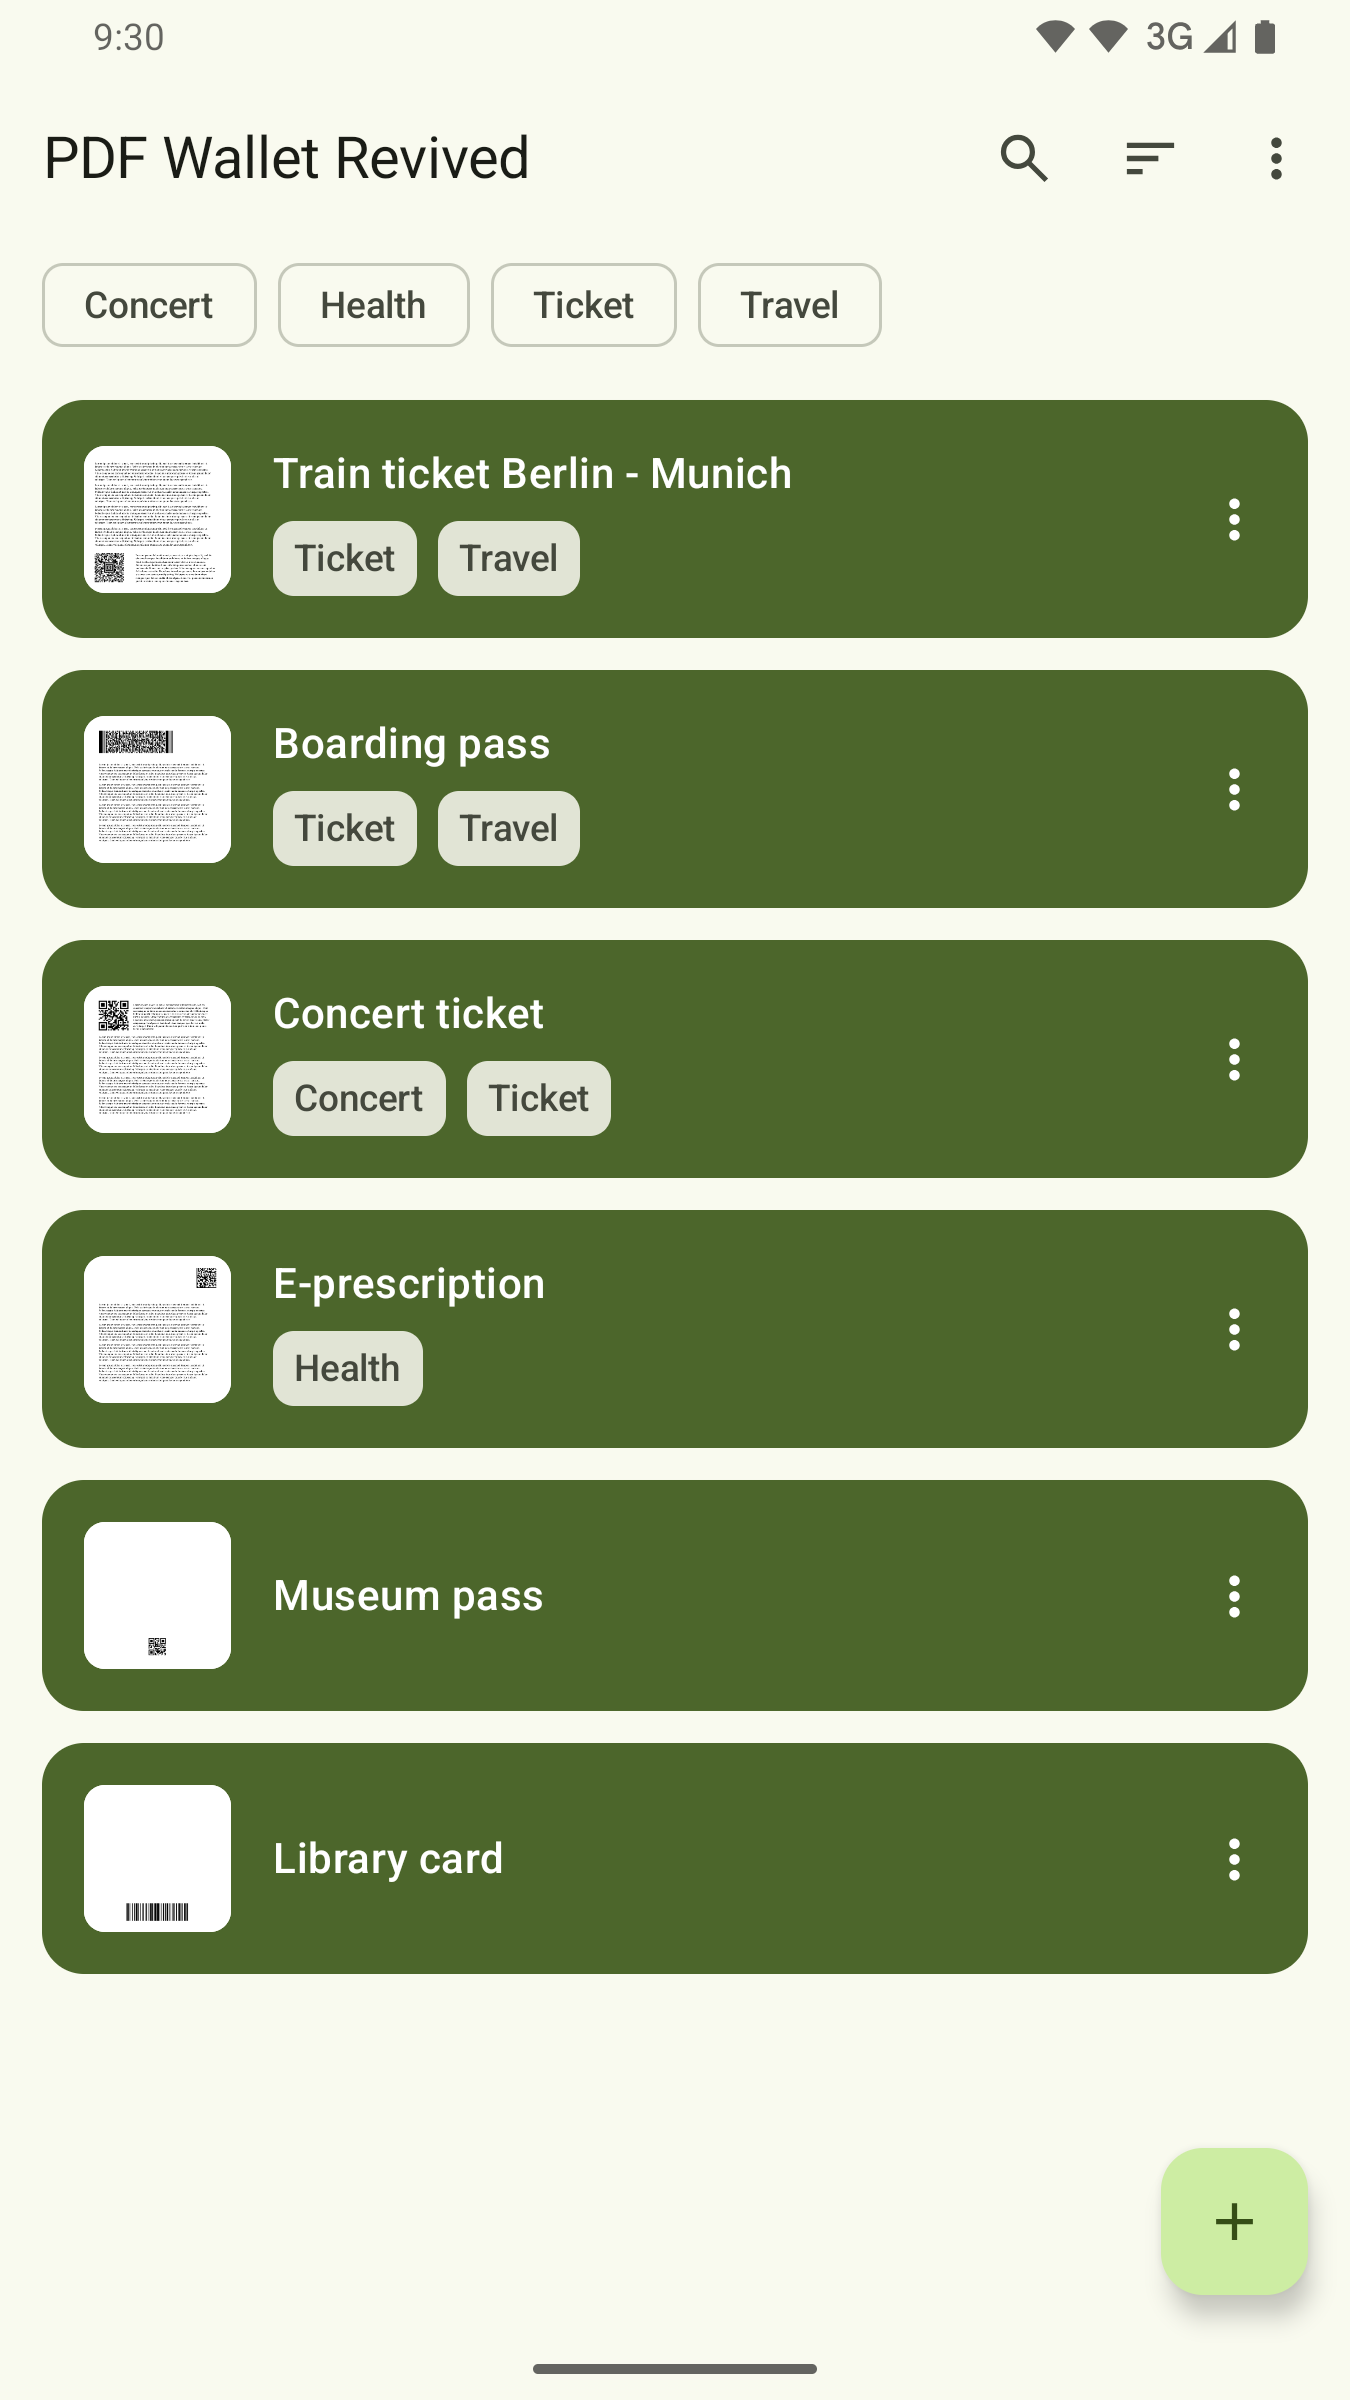
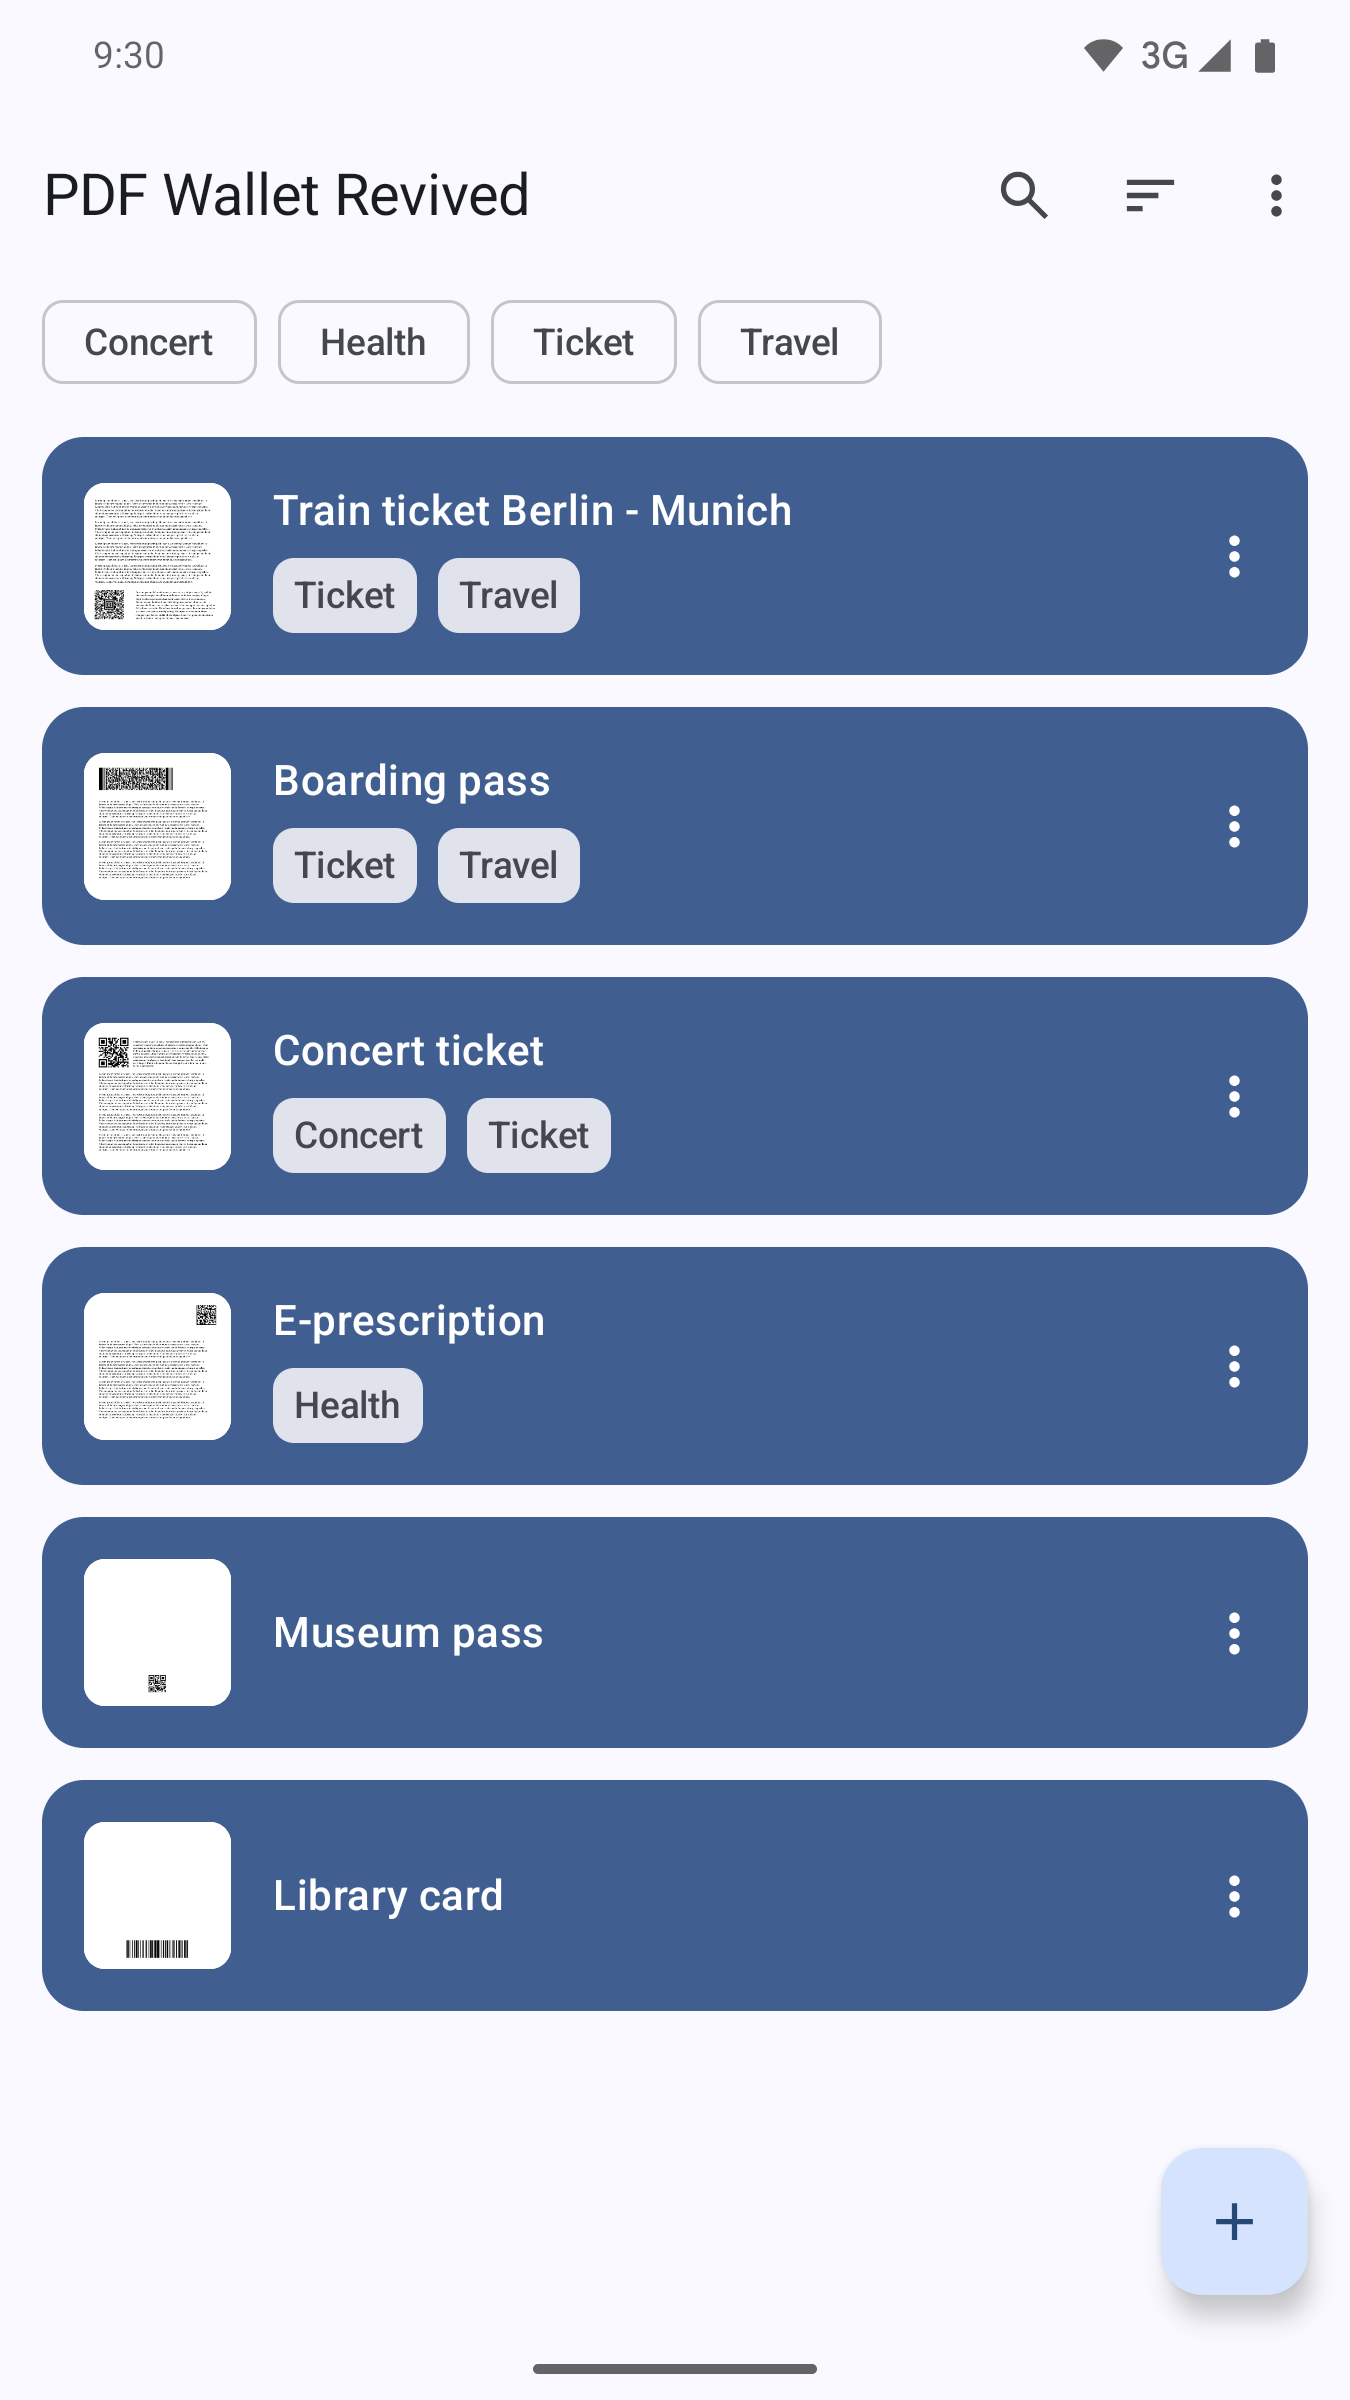
feat: switch the app and website accents from green to blue
Generate the Material 3 color schemes from the icon's blue with the same
tonal spot scheme the green theme used, and retake the store screenshots.

diff --git a/app/src/main/java/com/michaeltroger/gruenerpass/ui/theme/Theme.kt b/app/src/main/java/com/michaeltroger/gruenerpass/ui/theme/Theme.kt
@@ -13,77 +13,77 @@ import androidx.compose.ui.graphics.Color
 import androidx.compose.ui.platform.LocalContext
 
 private val LightColors = lightColorScheme(
-    primary = Color(0xFF4C662B),
+    primary = Color(0xFF405F90),
     onPrimary = Color(0xFFFFFFFF),
-    primaryContainer = Color(0xFFCDEDA3),
-    onPrimaryContainer = Color(0xFF354E16),
-    secondary = Color(0xFF586249),
+    primaryContainer = Color(0xFFD6E3FF),
+    onPrimaryContainer = Color(0xFF274777),
+    secondary = Color(0xFF555F71),
     onSecondary = Color(0xFFFFFFFF),
-    secondaryContainer = Color(0xFFDCE7C8),
-    onSecondaryContainer = Color(0xFF404A33),
-    tertiary = Color(0xFF386663),
+    secondaryContainer = Color(0xFFDAE2F9),
+    onSecondaryContainer = Color(0xFF3E4758),
+    tertiary = Color(0xFF6F5575),
     onTertiary = Color(0xFFFFFFFF),
-    tertiaryContainer = Color(0xFFBCECE7),
-    onTertiaryContainer = Color(0xFF1F4E4B),
+    tertiaryContainer = Color(0xFFF9D8FD),
+    onTertiaryContainer = Color(0xFF563E5C),
     error = Color(0xFFBA1A1A),
     onError = Color(0xFFFFFFFF),
     errorContainer = Color(0xFFFFDAD6),
     onErrorContainer = Color(0xFF93000A),
-    background = Color(0xFFF9FAEF),
-    onBackground = Color(0xFF1A1C16),
-    surface = Color(0xFFF9FAEF),
-    onSurface = Color(0xFF1A1C16),
-    surfaceVariant = Color(0xFFE1E4D5),
-    onSurfaceVariant = Color(0xFF44483D),
-    outline = Color(0xFF75796C),
-    outlineVariant = Color(0xFFC5C8BA),
-    inverseSurface = Color(0xFF2F312A),
-    inverseOnSurface = Color(0xFFF1F2E6),
-    inversePrimary = Color(0xFFB1D18A),
-    surfaceDim = Color(0xFFDADBD0),
-    surfaceBright = Color(0xFFF9FAEF),
+    background = Color(0xFFF9F9FF),
+    onBackground = Color(0xFF191C20),
+    surface = Color(0xFFF9F9FF),
+    onSurface = Color(0xFF191C20),
+    surfaceVariant = Color(0xFFE0E2EC),
+    onSurfaceVariant = Color(0xFF44474E),
+    outline = Color(0xFF74777F),
+    outlineVariant = Color(0xFFC4C6CF),
+    inverseSurface = Color(0xFF2E3036),
+    inverseOnSurface = Color(0xFFF0F0F7),
+    inversePrimary = Color(0xFFA9C7FF),
+    surfaceDim = Color(0xFFD9D9E0),
+    surfaceBright = Color(0xFFF9F9FF),
     surfaceContainerLowest = Color(0xFFFFFFFF),
-    surfaceContainerLow = Color(0xFFF3F4E9),
-    surfaceContainer = Color(0xFFEEEFE3),
-    surfaceContainerHigh = Color(0xFFE8E9DE),
-    surfaceContainerHighest = Color(0xFFE2E3D8),
+    surfaceContainerLow = Color(0xFFF3F3FA),
+    surfaceContainer = Color(0xFFEDEDF4),
+    surfaceContainerHigh = Color(0xFFE7E8EE),
+    surfaceContainerHighest = Color(0xFFE2E2E9),
 )
 
 private val DarkColors = darkColorScheme(
-    primary = Color(0xFFB1D18A),
-    onPrimary = Color(0xFF1F3701),
-    primaryContainer = Color(0xFF354E16),
-    onPrimaryContainer = Color(0xFFCDEDA3),
-    secondary = Color(0xFFBFCBAD),
-    onSecondary = Color(0xFF2A331E),
-    secondaryContainer = Color(0xFF404A33),
-    onSecondaryContainer = Color(0xFFDCE7C8),
-    tertiary = Color(0xFFA0D0CB),
-    onTertiary = Color(0xFF003735),
-    tertiaryContainer = Color(0xFF1F4E4B),
-    onTertiaryContainer = Color(0xFFBCECE7),
+    primary = Color(0xFFA9C7FF),
+    onPrimary = Color(0xFF08305F),
+    primaryContainer = Color(0xFF274777),
+    onPrimaryContainer = Color(0xFFD6E3FF),
+    secondary = Color(0xFFBDC7DC),
+    onSecondary = Color(0xFF283141),
+    secondaryContainer = Color(0xFF3E4758),
+    onSecondaryContainer = Color(0xFFDAE2F9),
+    tertiary = Color(0xFFDCBCE1),
+    onTertiary = Color(0xFF3F2845),
+    tertiaryContainer = Color(0xFF563E5C),
+    onTertiaryContainer = Color(0xFFF9D8FD),
     error = Color(0xFFFFB4AB),
     onError = Color(0xFF690005),
     errorContainer = Color(0xFF93000A),
     onErrorContainer = Color(0xFFFFDAD6),
-    background = Color(0xFF12140E),
-    onBackground = Color(0xFFE2E3D8),
-    surface = Color(0xFF12140E),
-    onSurface = Color(0xFFE2E3D8),
-    surfaceVariant = Color(0xFF44483D),
-    onSurfaceVariant = Color(0xFFC5C8BA),
-    outline = Color(0xFF8F9285),
-    outlineVariant = Color(0xFF44483D),
-    inverseSurface = Color(0xFFE2E3D8),
-    inverseOnSurface = Color(0xFF2F312A),
-    inversePrimary = Color(0xFF4C662B),
-    surfaceDim = Color(0xFF12140E),
-    surfaceBright = Color(0xFF383A32),
-    surfaceContainerLowest = Color(0xFF0D0F09),
-    surfaceContainerLow = Color(0xFF1A1C16),
-    surfaceContainer = Color(0xFF1E201A),
-    surfaceContainerHigh = Color(0xFF282B24),
-    surfaceContainerHighest = Color(0xFF33362E),
+    background = Color(0xFF111318),
+    onBackground = Color(0xFFE2E2E9),
+    surface = Color(0xFF111318),
+    onSurface = Color(0xFFE2E2E9),
+    surfaceVariant = Color(0xFF44474E),
+    onSurfaceVariant = Color(0xFFC4C6CF),
+    outline = Color(0xFF8E9099),
+    outlineVariant = Color(0xFF44474E),
+    inverseSurface = Color(0xFFE2E2E9),
+    inverseOnSurface = Color(0xFF2E3036),
+    inversePrimary = Color(0xFF405F90),
+    surfaceDim = Color(0xFF111318),
+    surfaceBright = Color(0xFF37393E),
+    surfaceContainerLowest = Color(0xFF0C0E13),
+    surfaceContainerLow = Color(0xFF191C20),
+    surfaceContainer = Color(0xFF1D2024),
+    surfaceContainerHigh = Color(0xFF282A2F),
+    surfaceContainerHighest = Color(0xFF33353A),
 )
 
 val supportsDynamicColor: Boolean

diff --git a/website/style.css b/website/style.css
@@ -1,14 +1,14 @@
-body { font-family: system-ui, sans-serif; max-width: 40rem; margin: 3rem auto; padding: 0 1rem; line-height: 1.5; color: #1a1c16; background: #f9faef; }
-a { color: #4c662b; }
+body { font-family: system-ui, sans-serif; max-width: 40rem; margin: 3rem auto; padding: 0 1rem; line-height: 1.5; color: #191c20; background: #f9f9ff; }
+a { color: #405f90; }
 h1 { display: flex; align-items: center; gap: .75rem; }
-code { word-break: break-all; background: #e2e3d8; padding: .1rem .3rem; border-radius: .25rem; }
+code { word-break: break-all; background: #e2e2e9; padding: .1rem .3rem; border-radius: .25rem; }
 .screenshots { display: grid; grid-template-columns: repeat(4, 1fr); gap: .75rem; margin: 2rem 0; }
 .screenshots img { width: 100%; height: auto; border-radius: .75rem; box-shadow: 0 1px 4px rgb(0 0 0 / 25%); }
 @media (max-width: 30rem) { .screenshots { grid-template-columns: repeat(2, 1fr); } }
-.button { display: inline-block; background: #4c662b; color: #fff; padding: .6rem 1.2rem; border-radius: 2rem; text-decoration: none; }
+.button { display: inline-block; background: #405f90; color: #fff; padding: .6rem 1.2rem; border-radius: 2rem; text-decoration: none; }
 @media (prefers-color-scheme: dark) {
-  body { color: #e2e3d8; background: #12140e; }
-  a { color: #b1d18a; }
-  code { background: #33362e; }
-  .button { background: #b1d18a; color: #1f3701; }
+  body { color: #e2e2e9; background: #111318; }
+  a { color: #a9c7ff; }
+  code { background: #33353a; }
+  .button { background: #a9c7ff; color: #08305f; }
 }

diff --git a/README.md b/README.md
@@ -27,7 +27,7 @@ This fork keeps the app open source under the GPLv3. It rebuilds the interface w
 - Swipe between documents and switch between the barcode and the PDF, or show both in split screen.
 - Tag, search and sort documents by import date, name or file size.
 - Open password protected PDFs and lock the app with biometrics or the device PIN.
-- Use a light or dark theme, in green or in your system colors on Android 12 and later.
+- Use a light or dark theme, in blue or in your system colors on Android 12 and later.
 - Work offline, with no internet permission, ads or tracking.
 
 ## Building
